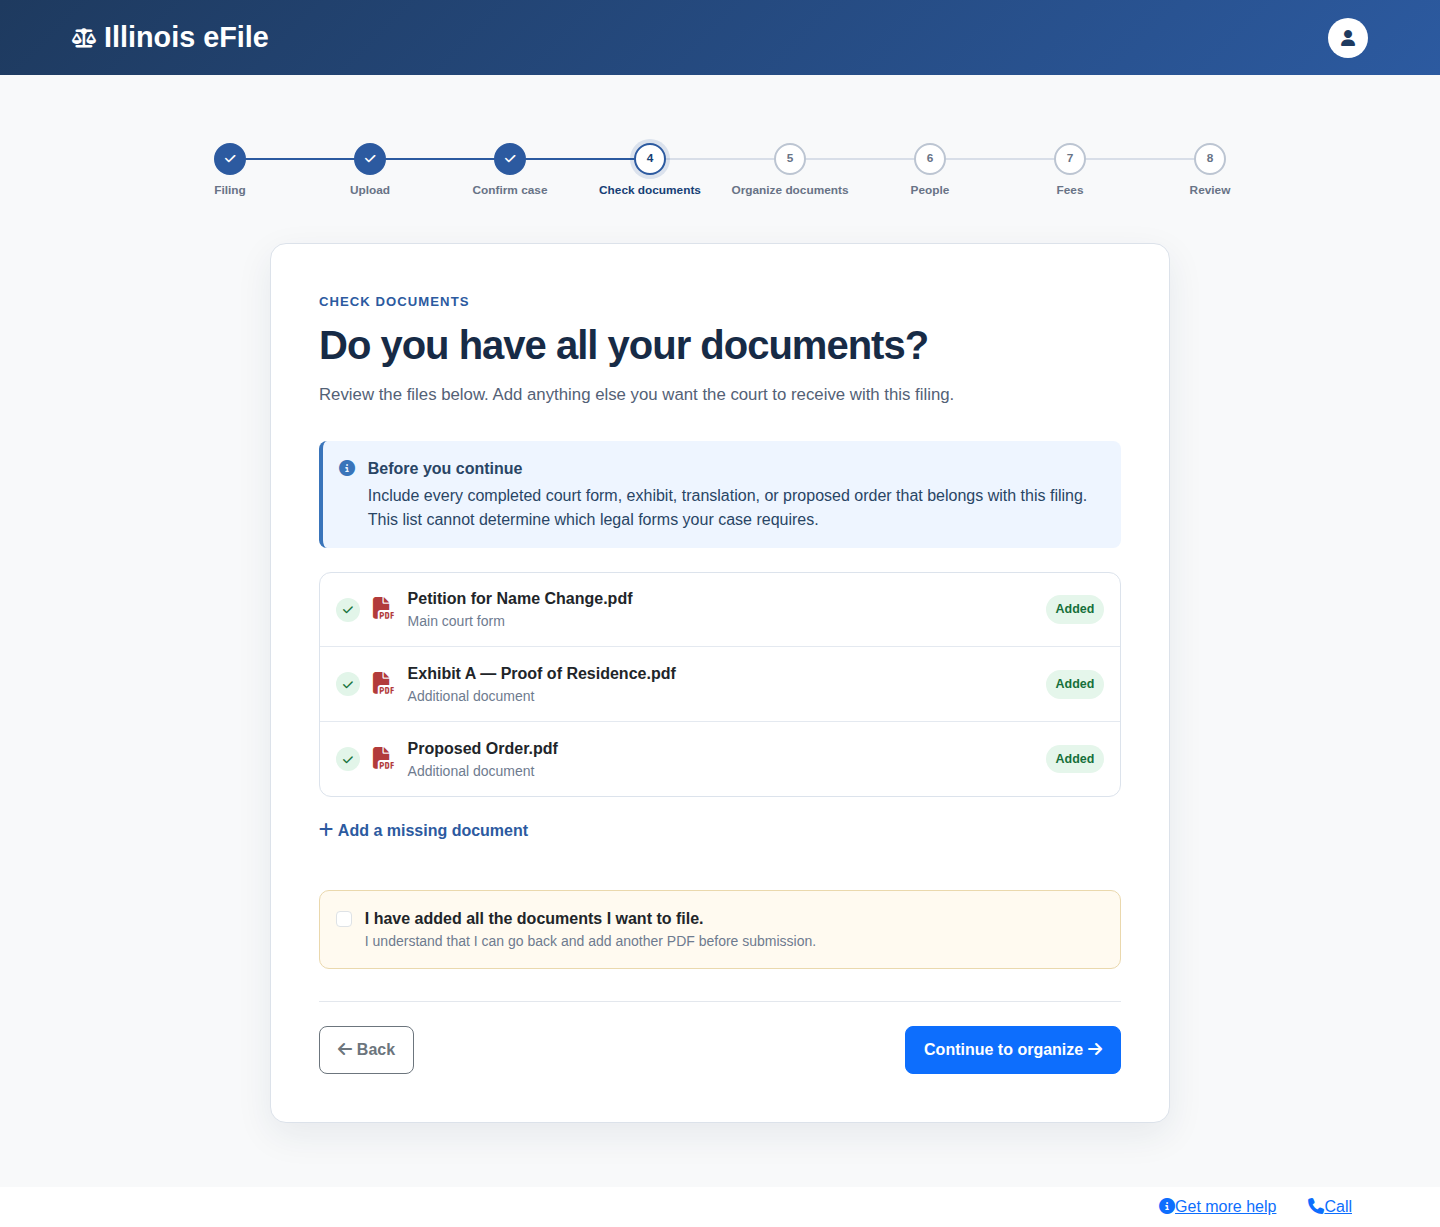
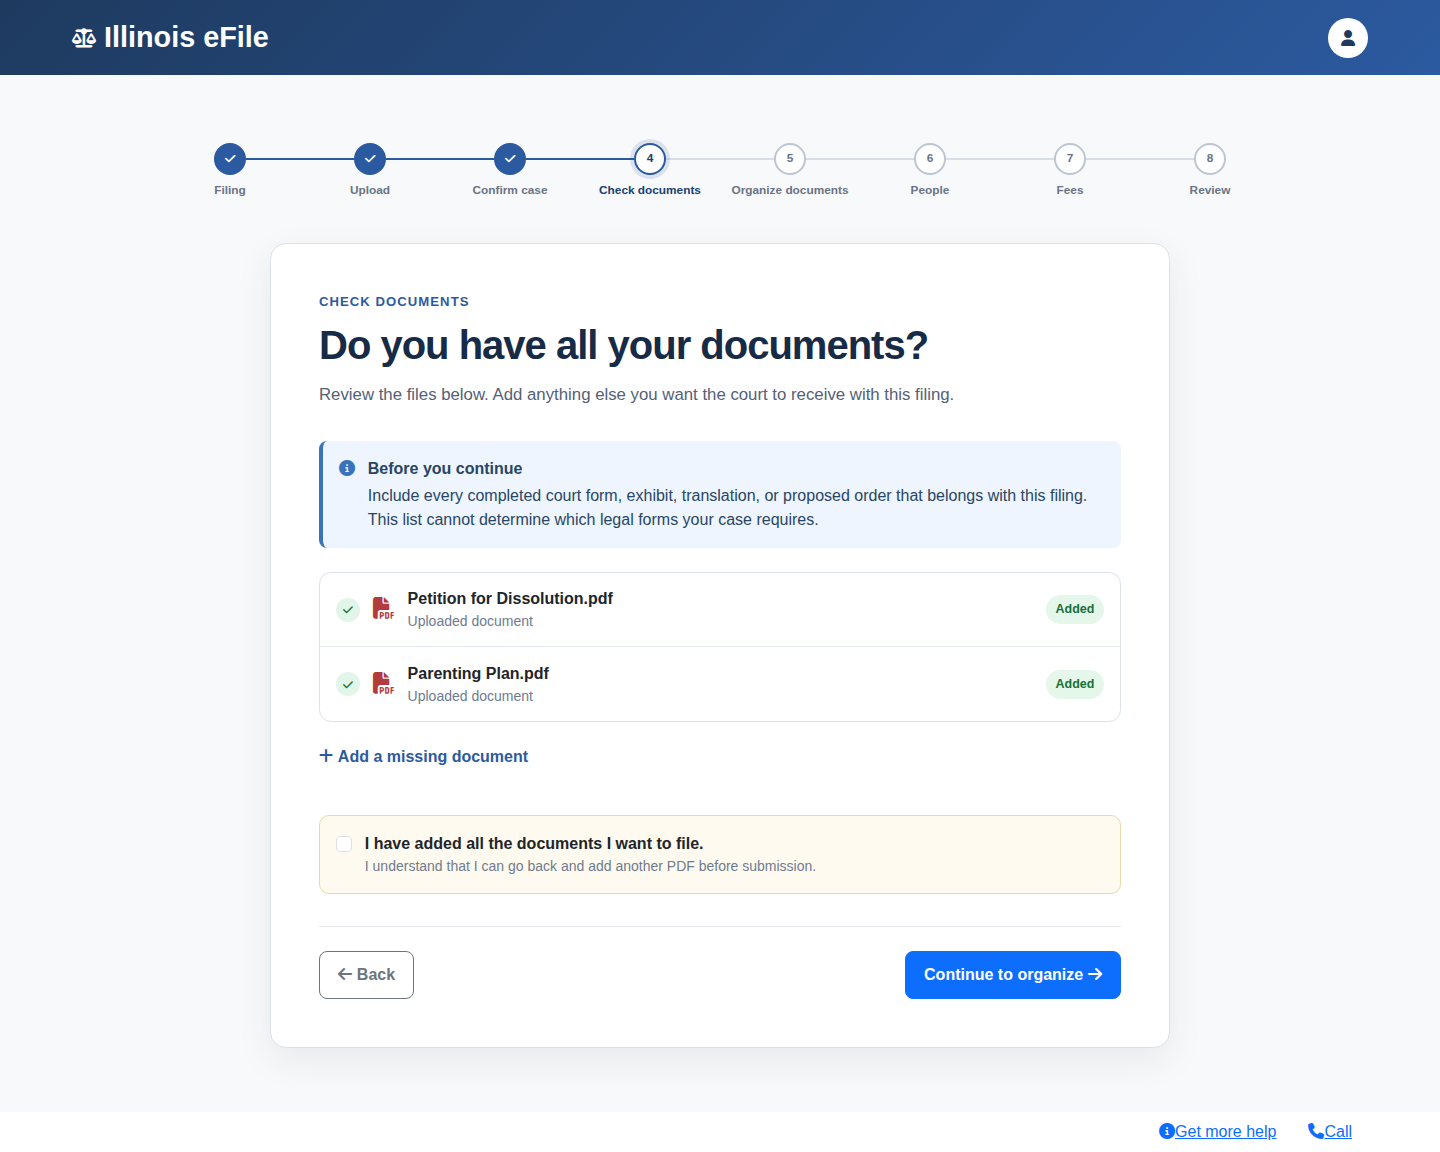
Use explicit document roles and radio choices

diff --git a/efile_app/efile/static/js/organize-documents.js b/efile_app/efile/static/js/organize-documents.js
@@ -31,6 +31,30 @@
         select.disabled = false;
     }
 
+    function setRadioOptions(container, options, savedValue, fieldName, placeholder) {
+        container.innerHTML = "";
+        if (!options.length) {
+            const message = document.createElement("small");
+            message.textContent = placeholder;
+            container.appendChild(message);
+            return;
+        }
+        options.forEach((item, index) => {
+            const label = document.createElement("label");
+            const input = document.createElement("input");
+            input.className = "form-check-input";
+            input.type = "radio";
+            input.name = fieldName;
+            input.value = optionValue(item);
+            input.required = true;
+            input.checked = input.value === savedValue || (!savedValue && options.length === 1 && index === 0);
+            const text = document.createElement("span");
+            text.textContent = optionText(item);
+            label.append(input, text);
+            container.appendChild(label);
+        });
+    }
+
     async function getJson(url) {
         const response = await fetch(url, {
             headers: {
@@ -60,16 +84,17 @@
     }
 
     async function loadDependentOptions(card, filingType) {
-        const documentType = card.querySelector(".document-type");
-        const component = card.querySelector(".filing-component");
+        const documentType = card.querySelector(".document-type-options");
+        const component = card.querySelector(".filing-component-options");
+        const documentId = card.dataset.documentId;
         if (!filingType) {
-            setOptions(documentType, [], "", "Select a filing type first");
-            setOptions(component, [], "", "Select a filing type first");
+            setRadioOptions(documentType, [], "", `document-type-${documentId}`, "Select a filing type first");
+            setRadioOptions(component, [], "", `filing-component-${documentId}`, "Select a filing type first");
             return;
         }
 
-        documentType.disabled = true;
-        component.disabled = true;
+        documentType.innerHTML = "<small>Loading choices…</small>";
+        component.innerHTML = "<small>Loading choices…</small>";
         const documentParams = new URLSearchParams({
             jurisdiction: context.jurisdiction,
             court: context.court,
@@ -84,7 +109,13 @@
             getJson(`/api/dropdowns/document-types/?${documentParams}`),
             getJson(`/api/get-filing-components/?${componentParams}`),
         ]);
-        setOptions(documentType, documentTypes, card.dataset.documentType, "Choose public or confidential");
+        setRadioOptions(
+            documentType,
+            documentTypes,
+            card.dataset.documentType,
+            `document-type-${documentId}`,
+            "No confidentiality choices are available",
+        );
 
         let savedComponent = card.dataset.filingComponent;
         if (!savedComponent && components.length) {
@@ -92,7 +123,13 @@
             const preferred = components.find((item) => optionText(item).toLowerCase().includes(preferredWord));
             savedComponent = optionValue(preferred || components[0]);
         }
-        setOptions(component, components, savedComponent, "Choose a document role");
+        setRadioOptions(
+            component,
+            components,
+            savedComponent,
+            `filing-component-${documentId}`,
+            "No document roles are available",
+        );
     }
 
     async function initializeCard(card) {
@@ -160,8 +197,8 @@
         button.disabled = true;
         const documents = cards().map((card) => {
             const filingType = card.querySelector(".filing-type");
-            const documentType = card.querySelector(".document-type");
-            const component = card.querySelector(".filing-component");
+            const documentType = card.querySelector('.document-type-options input:checked');
+            const component = card.querySelector('.filing-component-options input:checked');
             const courtesyEmail = card.querySelector(".certified-copy").checked ?
                 card.querySelector(".courtesy-email").value : "";
             return {
@@ -169,10 +206,10 @@
                 name: card.querySelector(".document-name").value,
                 filing_type: filingType.value,
                 filing_type_name: filingType.selectedOptions[0]?.text || "",
-                document_type: documentType.value,
-                document_type_name: documentType.selectedOptions[0]?.text || "",
-                filing_component: component.value,
-                filing_component_name: component.selectedOptions[0]?.text || "",
+                document_type: documentType?.value || "",
+                document_type_name: documentType?.closest("label")?.innerText.trim() || "",
+                filing_component: component?.value || "",
+                filing_component_name: component?.closest("label")?.innerText.trim() || "",
                 courtesy_copy_email: courtesyEmail,
             };
         });
@@ -185,7 +222,8 @@
                     "X-CSRFToken": apiUtils.getCSRFToken(),
                 },
                 body: JSON.stringify({
-                    documents
+                    documents,
+                    main_document_id: Number(form.elements.namedItem("main_document").value),
                 }),
             });
             const result = await response.json();

diff --git a/efile_app/efile/templates/efile/organize_documents.html b/efile_app/efile/templates/efile/organize_documents.html
@@ -14,6 +14,31 @@
         <div class="alert alert-danger" id="organize-error" hidden></div>
         <form id="organize-documents-form">
             {% csrf_token %}
+            <fieldset class="main-document-choice">
+                <legend>{% translate "Which PDF is the main document?" %}</legend>
+                <p>
+                    {% translate "Choose the document that starts or drives this filing, such as a petition. Upload order does not matter." %}
+                </p>
+                <div class="compact-choice-list">
+                    {% for document in documents %}
+                        <label>
+                            <input class="form-check-input"
+                                   type="radio"
+                                   name="main_document"
+                                   value="{{ document.id }}"
+                                   {% if document.role == "lead" %}checked{% endif %}
+                                   required />
+                            <span><strong>{{ document.name|default:document.original_filename }}</strong><small>
+                                {% if document.role == "lead" %}
+                                    {% translate "Current main document" %}
+                                {% else %}
+                                    {% translate "Additional document" %}
+                                {% endif %}
+                            </small></span>
+                        </label>
+                    {% endfor %}
+                </div>
+            </fieldset>
             <div class="organize-list" id="organize-list">
                 {% for document in documents %}
                     <article class="organize-card"
@@ -49,7 +74,7 @@
                                     </button>
                                 </div>
                             {% else %}
-                                <span class="status-pill status-pill--lead">{% translate "Filed first" %}</span>
+                                <span class="status-pill status-pill--lead">{% translate "Main document" %}</span>
                             {% endif %}
                         </header>
                         <div class="organize-card__fields">
@@ -66,19 +91,19 @@
                                     <option value="">{% translate "Loading filing types…" %}</option>
                                 </select>
                             </label>
-                            <label class="form-field">
-                                <span>{% translate "Should this document be confidential?" %}</span>
-                                <select class="form-select document-type" required disabled>
-                                    <option value="">{% translate "Select a filing type first" %}</option>
-                                </select>
-                            </label>
-                            <label class="form-field">
-                                <span>{% translate "Document role" %}</span>
-                                <select class="form-select filing-component" disabled>
-                                    <option value="">{% translate "Select a filing type first" %}</option>
-                                </select>
+                            <fieldset class="form-field compact-choice-field">
+                                <legend>{% translate "Should this document be confidential?" %}</legend>
+                                <div class="compact-choice-list document-type-options">
+                                    <small>{% translate "Select a filing type first" %}</small>
+                                </div>
+                            </fieldset>
+                            <fieldset class="form-field compact-choice-field">
+                                <legend>{% translate "Document role" %}</legend>
+                                <div class="compact-choice-list filing-component-options">
+                                    <small>{% translate "Select a filing type first" %}</small>
+                                </div>
                                 <small>{% translate "The court uses this to place the PDF in the filing." %}</small>
-                            </label>
+                            </fieldset>
                         </div>
                         <details class="certified-copy-details"
                                  {% if document.courtesy_copy_email %}open{% endif %}>

diff --git a/efile_app/efile/static/css/reorganized-flow.css b/efile_app/efile/static/css/reorganized-flow.css
@@ -612,6 +612,33 @@
     margin-top: 1.5rem;
 }
 
+.main-document-choice {
+    background: #f6f9fd;
+    border: 1px solid #dce3ec;
+    border-radius: 12px;
+    margin-top: 1.5rem;
+    padding: 1rem;
+}
+
+.main-document-choice legend {
+    color: #263c58;
+    float: none;
+    font-size: 1.05rem;
+    font-weight: 750;
+    margin: 0;
+    width: auto;
+}
+
+.main-document-choice>p {
+    color: #68768a;
+    margin: 0.25rem 0 0.8rem;
+}
+
+.main-document-choice small {
+    color: #6d798d;
+    display: block;
+}
+
 .organize-card {
     border: 1px solid #dce3ec;
     border-radius: 12px;
@@ -666,6 +693,30 @@
     color: #38567a;
     cursor: pointer;
     font-weight: 700;
+}
+
+.compact-choice-field legend {
+    color: #263c58;
+    float: none;
+    font-size: 1rem;
+    font-weight: 700;
+    margin-bottom: 0.35rem;
+    width: auto;
+}
+
+.compact-choice-list {
+    display: grid;
+    gap: 0.45rem;
+}
+
+.compact-choice-list label {
+    align-items: center;
+    background: #f7f9fc;
+    border: 1px solid #dce3ec;
+    border-radius: 8px;
+    display: flex;
+    gap: 0.65rem;
+    padding: 0.6rem 0.75rem;
 }
 
 @media (max-width: 700px) {

diff --git a/efile_app/efile/templates/efile/document_checklist.html b/efile_app/efile/templates/efile/document_checklist.html
@@ -27,13 +27,7 @@
                     <span class="checklist-file__icon"><i class="fa-solid fa-file-pdf"></i></span>
                     <span>
                         <strong>{{ document.name|default:document.original_filename }}</strong>
-                        <small>
-                            {% if document.role == "lead" %}
-                                {% translate "Main court form" %}
-                            {% else %}
-                                {% translate "Additional document" %}
-                            {% endif %}
-                        </small>
+                        <small>{% translate "Uploaded document" %}</small>
                     </span>
                     <span class="status-pill status-pill--ready">{% translate "Added" %}</span>
                 </article>

diff --git a/efile_app/efile/views/organize_documents.py b/efile_app/efile/views/organize_documents.py
@@ -14,17 +14,20 @@ from efile.workflow import ExistingCase, WorkflowStepKey, get_step_url, get_work
 
 
 @transaction.atomic
-def _save_document_details(draft, document_details):
+def _save_document_details(draft, document_details, main_document_id):
     documents = {document.pk: document for document in FilingDocument.objects.select_for_update().filter(draft=draft)}
     if {item.get("id") for item in document_details} != set(documents):
         raise ValueError("The document list changed. Refresh the page and try again.")
+    if main_document_id not in documents:
+        raise ValueError("Choose the main document for this filing.")
 
-    # Move supporting documents out of the final range before applying a new
-    # order, so swapping positions cannot trip the unique (draft, role, order)
-    # constraint halfway through the transaction.
+    # Move every document out of the final ranges before changing the main
+    # document or order, so role/order swaps cannot trip the uniqueness rule.
     for document in documents.values():
-        if document.role == FilingDocument.Role.SUPPORTING:
-            FilingDocument.objects.filter(pk=document.pk).update(sort_order=1_000_000 + document.pk)
+        FilingDocument.objects.filter(pk=document.pk).update(sort_order=1_000_000 + document.pk)
+
+    for document in documents.values():
+        document.role = FilingDocument.Role.LEAD if document.pk == main_document_id else FilingDocument.Role.SUPPORTING
 
     supporting_order = 0
     for item in document_details:
@@ -42,7 +45,9 @@ def _save_document_details(draft, document_details):
         document.filing_component_code = str(item.get("filing_component") or "")[:100]
         document.filing_component_name = str(item.get("filing_component_name") or "")[:255]
         document.courtesy_copy_email = str(item.get("courtesy_copy_email") or "")[:254]
-        if document.role == FilingDocument.Role.SUPPORTING:
+        if document.pk == main_document_id:
+            document.sort_order = 0
+        else:
             document.sort_order = supporting_order
             supporting_order += 1
         document.save()
@@ -72,7 +77,11 @@ def organize_documents(request, jurisdiction):
             details = data.get("documents")
             if not isinstance(details, list):
                 raise ValueError("Document details are missing.")
-            _save_document_details(draft, details)
+            try:
+                main_document_id = int(data.get("main_document_id"))
+            except (TypeError, ValueError) as error:
+                raise ValueError("Choose the main document for this filing.") from error
+            _save_document_details(draft, details, main_document_id)
         except (json.JSONDecodeError, ValueError) as error:
             return JsonResponse({"success": False, "error": str(error)}, status=400)
 

diff --git a/efile_app/efile/tests/test_document_prep.py b/efile_app/efile/tests/test_document_prep.py
@@ -145,7 +145,7 @@ def test_organize_saves_details_and_supporting_order(client, document_draft):
 
     response = client.post(
         reverse("organize_documents", kwargs={"jurisdiction": "illinois"}),
-        {"documents": details},
+        {"documents": details, "main_document_id": second.pk},
         content_type="application/json",
     )
 
@@ -154,14 +154,18 @@ def test_organize_saves_details_and_supporting_order(client, document_draft):
     assert response.status_code == 200
     assert response.json()["redirect_url"] == reverse("your_information", kwargs={"jurisdiction": "illinois"})
     assert document_draft.current_step == WorkflowStepKey.YOUR_INFORMATION
+    assert lead.role == FilingDocument.Role.SUPPORTING
     assert lead.filing_type_code == "petition"
     assert lead.courtesy_copy_email == "filer@example.com"
     assert list(
         document_draft.documents.filter(role=FilingDocument.Role.SUPPORTING)
         .order_by("sort_order")
         .values_list("pk", flat=True)
-    ) == [second.pk, first.pk]
+    ) == [lead.pk, first.pk]
+
+    second.refresh_from_db()
+    assert second.role == FilingDocument.Role.LEAD
 
     saved = read_upload_data(document_draft)
-    assert saved["lead_filing_component"] == "lead"
-    assert saved["supporting_documents"][0]["document_type"] == "sealed"
+    assert saved["lead_filing_component"] == "attachment"
+    assert saved["supporting_documents"][0]["filing_type"] == "petition"
